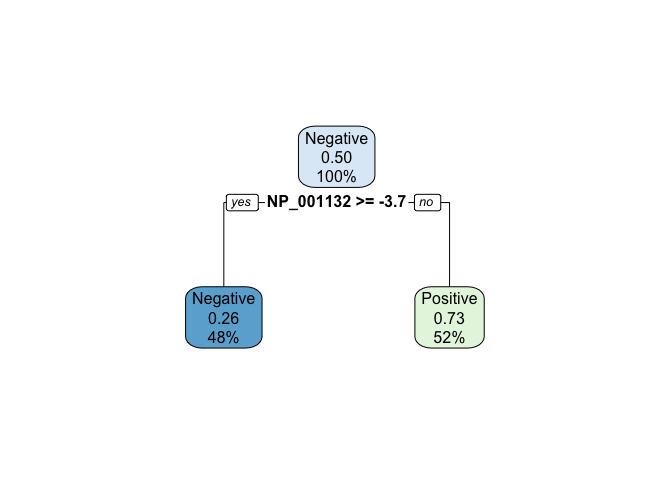
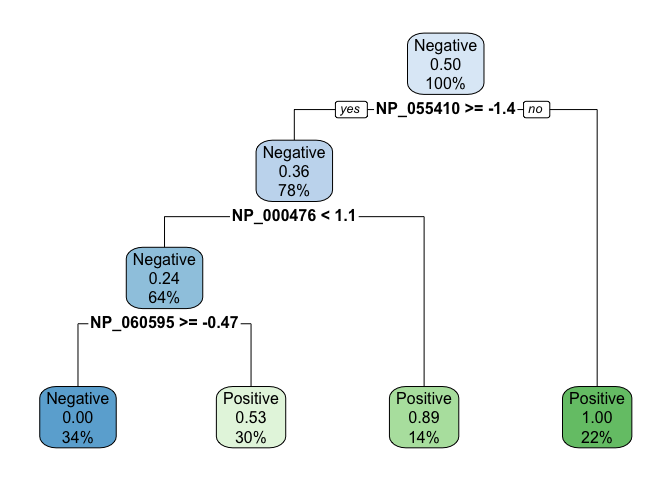
md of trees + roc curve viz

diff --git a/stl2137_trees.md b/stl2137_trees.md
@@ -2,7 +2,7 @@ stl2137\_trees
 ================
 
 ``` r
-load("./updated_bcp_data.RData")
+load("./final_data.RData")
 
 set.seed(13)
 rowTrain <-createDataPartition(y = bcp_data$node,
@@ -27,17 +27,17 @@ cpTable <- printcp(tree1)
     ## rpart(formula = node ~ ., data = bcp_train, control = rpart.control(cp = 0))
     ## 
     ## Variables actually used in tree construction:
-    ## [1] NP_000590 NP_001132 NP_001815
+    ## [1] NP_000476 NP_055410 NP_060595
     ## 
     ## Root node error: 32/64 = 0.5
     ## 
     ## n= 64 
     ## 
     ##        CP nsplit rel error xerror    xstd
-    ## 1 0.46875      0   1.00000 1.2812 0.11995
-    ## 2 0.12500      1   0.53125 1.1250 0.12402
-    ## 3 0.09375      2   0.40625 1.2500 0.12103
-    ## 4 0.00000      3   0.31250 1.1562 0.12346
+    ## 1 0.43750      0   1.00000 1.2812 0.11995
+    ## 2 0.21875      1   0.56250 1.3750 0.11588
+    ## 3 0.03125      2   0.34375 1.1562 0.12346
+    ## 4 0.00000      3   0.31250 1.0625 0.12476
 
 ``` r
 plotcp(tree1)
@@ -111,8 +111,8 @@ table(rf_pred_test_error, bcp_test$node)
 
     ##                   
     ## rf_pred_test_error Negative Positive
-    ##           Negative        5        5
-    ##           Positive        3        3
+    ##           Negative        7        4
+    ##           Positive        1        4
 
 ``` r
 ### Square Root 
@@ -123,15 +123,15 @@ table(rf_pred_sqrt_test_error, bcp_test$node)
 
     ##                        
     ## rf_pred_sqrt_test_error Negative Positive
-    ##                Negative        6        6
-    ##                Positive        2        2
+    ##                Negative        8        5
+    ##                Positive        0        3
 
 ## Boosting
 
 ### Distribution = Bernoulli
 
 ``` r
-bern_boosting_grid <- expand.grid(n.trees = c(2000,3000),
+bern_boosting_grid <- expand.grid(n.trees = c(1000, 2000,3000),
                         interaction.depth = 1:4,
                         shrinkage = c(0.001, 0.003, 0.005, 0.01),
                         n.minobsinnode = 1)
@@ -159,13 +159,13 @@ table(bern_boosting_test_error, bcp_test$node)
 
     ##                         
     ## bern_boosting_test_error Negative Positive
-    ##                 Negative        6        5
-    ##                 Positive        2        3
+    ##                 Negative        8        5
+    ##                 Positive        0        3
 
 ### AdaBoosting
 
 ``` r
-adaboosting_grid <- expand.grid(n.trees = c(2000,3000),
+adaboosting_grid <- expand.grid(n.trees = c(1000, 2000,3000),
                         interaction.depth = 1:4,
                         shrinkage = c(0.001, 0.003, 0.005, 0.01),
                         n.minobsinnode = 1)
@@ -192,14 +192,52 @@ table(adaboosting_test_error, bcp_test$node)
 
     ##                       
     ## adaboosting_test_error Negative Positive
-    ##               Negative        5        7
-    ##               Positive        3        1
+    ##               Negative        8        5
+    ##               Positive        0        3
 
 # Test Data Performance
 
 ``` r
-#roc_rf <- roc(bcp_test$node, rf_fit)
-#roc_rf_sqrt <- roc(bcp_test$node, rf_fit_sqrt)
-#roc_bern_boost <- 
-#roc_adaboost <- 
+roc_rf <- roc(bcp_test$node, rf_pred[,1])
 ```
+
+    ## Setting levels: control = Negative, case = Positive
+
+    ## Setting direction: controls > cases
+
+``` r
+roc_rf_sqrt <- roc(bcp_test$node, rf_pred_sqrt[,1])
+```
+
+    ## Setting levels: control = Negative, case = Positive
+    ## Setting direction: controls > cases
+
+``` r
+roc_bern_boost <- roc(bcp_test$node, bern_boosting_pred[,1])
+```
+
+    ## Setting levels: control = Negative, case = Positive
+    ## Setting direction: controls > cases
+
+``` r
+roc_adaboost <- roc(bcp_test$node, adaboosting_pred[,1])
+```
+
+    ## Setting levels: control = Negative, case = Positive
+    ## Setting direction: controls > cases
+
+``` r
+plot(roc_rf)
+plot(roc_rf_sqrt, add = TRUE, col = 2)
+plot(roc_bern_boost, add = TRUE, col = 3)
+plot(roc_adaboost, add = TRUE, col = 4)
+
+auc <- c(roc_rf$auc[1], roc_rf_sqrt$auc[1], roc_bern_boost$auc[1], roc_adaboost$auc[1])
+
+
+modelNames <- c("random forest","random forest sqrt","bernoulli boost","adaboost")
+legend("bottomright", legend = paste0(modelNames, ": ", round(auc,3)),
+       col = 1:6, lwd = 2)
+```
+
+![](stl2137_trees_files/figure-gfm/unnamed-chunk-9-1.png)<!-- -->
